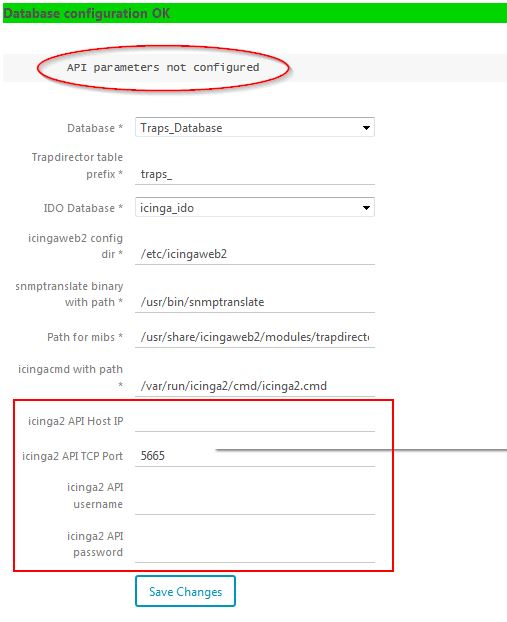
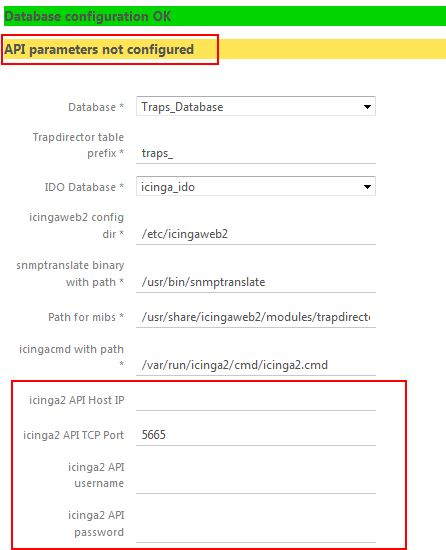
API permissions check

diff --git a/library/Trapdirector/Config/TrapModuleConfig.php b/library/Trapdirector/Config/TrapModuleConfig.php
@@ -4,16 +4,28 @@ namespace Icinga\Module\TrapDirector\Config;
 
 class TrapModuleConfig
 {
+    /********** Database configuration ***********************/
 	// Database prefix for tables 
-	protected $table_prefix;
-	
+    protected $table_prefix; //< Database prefix for tables 	
 	protected $DBConfigDefaults=array(
 		'db_remove_days' => 60, // number of days before removing traps
 		'log_destination' => 'syslog', // Log destination for trap handler
 		'log_file' => '/tmp/trapdirector.log', // Log file
 		'log_level' => 2, // log level
 	);
+	// get default values for dbconfig
+	public function getDBConfigDefaults() { return $this->DBConfigDefaults;}
+	// Minimum DB version
+	static public function getDbMinVersion() { return 1;}	
+	// Current DB version
+	static public function getDbCurVersion() { return 1;}
+
+	/************ Module configuration **********************/
+	// Module base path
+	static public function urlPath() { return 'trapdirector'; }
+	static public function getapiUserPermissions() { return array("status", "objects/query/Host", "objects/query/Service" , "actions/process-check-result"); } //< api user permissions required
 	
+	/*********** Log configuration *************************/
 	protected $logLevels=array(0=>'No output', 1=>'critical', 2=>'warning', 3=>'trace', 4=>'ALL');
 	public function getlogLevels() { return $this->logLevels;}
 	protected $logDestinations=array('syslog'=>'syslog','file'=>'file','display'=>'display');
@@ -23,6 +35,8 @@ class TrapModuleConfig
 	{
 		$this->table_prefix=$prefix;
 	}
+	
+	/************  Database table names ********************/
 	// DB table name of trap received list : prefix 't'
 	public function getTrapTableName() 
 	{ 
@@ -45,21 +59,15 @@ class TrapModuleConfig
 	{ 
 		return array('c' => $this->table_prefix . 'db_config');
 	}
-
+	
 	// Mib cache tables
 	public function getMIBCacheTableName() { return $this->table_prefix . 'mib_cache'; }
 	public function getMIBCacheTableTrapObjName() { return $this->table_prefix . 'mib_cache_trap_object'; }
 	public function getMIBCacheTableSyntax() { return $this->table_prefix . 'mib_cache_syntax'; }
 	public function getMIBCacheTableTC() { return array('t' => $this->table_prefix . 'mib_cache_tc'); }
 	
-	// get default values for dbconfig
-	public function getDBConfigDefaults() { return $this->DBConfigDefaults;}
-	// Minimum DB version 
-	public function getDbMinVersion() { return 1;}
 	
-	// Current DB version 
-	public function getDbCurVersion() { return 1;}
-	
+	/****************** Database queries *******************/
 	// DB columns to display in view table (prefix is set for table in getTrapTableName)
 	// Note : must have 'id' and 'timestamp'
 	public function getTrapListDisplayColumns()
@@ -155,10 +163,7 @@ class TrapModuleConfig
 			'modified'		=> 'UNIX_TIMESTAMP(r.modified)'
 		);
 	}	
-	
-	// Module base path
-	public function urlPath() { return 'trapdirector'; }
-	
+		
 	// Trap detail (<key> => <title> <sql select>)
 	public function trapDetailQuery()
 	{

diff --git a/library/Trapdirector/Icinga2Api.php b/library/Trapdirector/Icinga2Api.php
@@ -70,26 +70,42 @@ class Icinga2API
         throw new RuntimeException('Certificate auth not implemented');
     }
 
-    public function test()
+    public function test(array $permissions)
     {
-        //$client = new ApiClient('localhost');
-        //$client->setCredentials('root', 'icinga');
-        //$getHeader = array('X-HTTP-Method-Override: GET');
-        /*$body = array(
-            'joins' => array(
-                'host'
-            ),
-            //'filter' => 'service.state!=service_state && match("networks",host.groups) && host.last_hard_state!=1 && host.last_check!=-1 && host.acknowledgement!=host_ack',
-            'filter' => 'service.state!=service_state && host.acknowledgement!=host_ack',
-            'filter_vars' => array(
-                'service_state' => 'ServiceOK',
-                'host_ack' 	=> 2
-            )
-        );
-        */
-        $this->request("get", "", NULL, NULL);
-        // TODO : check result ? -> if (preg_match('/permissions/', $result));
-        return 'API connection OK';
+        $result=$this->request("get", "", NULL, NULL);
+        var_dump($result);
+        $permOk=1;
+        $permMissing='';
+        if (property_exists($result, 'results') && property_exists($result->results[0], 'permissions'))
+        {
+            
+            foreach ( $permissions as $mustPermission)
+            {
+                $curPermOK=0;
+                foreach ( $result->results[0]->permissions as $curPermission)
+                {
+                    $curPermission=preg_replace('/\*/','.*',$curPermission); // put * as .* to created a regexp
+                    if (preg_match('#'.$curPermission.'#',$mustPermission))
+                    {
+                        $curPermOK=1;
+                        break;
+                    }
+                }
+                if ($curPermOK == 0)
+                {
+                    $permOk=0;
+                    $permMissing=$mustPermission;
+                    break;
+                }
+            }
+            if ($permOk == 0)
+            {
+                return array(true,'API connection OK, but missing permission : '.$permMissing);
+            }
+            return array(false,'API connection OK');
+            
+        }
+        return array(true,'API connection OK, but cannot get permissions');
     }
     
     

diff --git a/application/controllers/SettingsController.php b/application/controllers/SettingsController.php
@@ -8,6 +8,7 @@ use Icinga\Application\Icinga;
 use Icinga\Exception\ProgrammingError;
 use RunTimeException;
 
+use Icinga\Module\TrapDirector\Config\TrapModuleConfig;
 use Icinga\Module\Trapdirector\TrapsController;
 use Icinga\Module\Trapdirector\Forms\TrapsConfigForm;
 use Icinga\Module\Trapdirector\Icinga2Api;
@@ -68,14 +69,17 @@ class SettingsController extends TrapsController
 	    $apitest=new Icinga2Api($this->Config()->get('config', 'icingaAPI_host'),$this->Config()->get('config', 'icingaAPI_port'));
     	$apitest->setCredentials($this->Config()->get('config', 'icingaAPI_user'), $this->Config()->get('config', 'icingaAPI_password'));
     	try {
-    	    $this->view->apimessage=$apitest->test();
+    	    list($this->view->apimessageError,$this->view->apimessage)=$apitest->test(TrapModuleConfig::getapiUserPermissions());
+    	    //$this->view->apimessageError=false;
     	} catch (RuntimeException $e) {
-    	    $this->view->apimessage=$e->getMessage();
+    	    $this->view->apimessage='API config : ' . $e->getMessage();
+    	    $this->view->apimessageError=true;
     	} 
 	}
 	else
 	{
 	    $this->view->apimessage='API parameters not configured';
+	    $this->view->apimessageError=true;
 	}
 	// List DB in $ressources
 	$resources = array();

diff --git a/docs/01-install.md b/docs/01-install.md
@@ -89,7 +89,7 @@ object ApiUser "trapdirector" {
   permissions = [ "/status", "objects/query/Host", "objects/query/Service" , "actions/process-check-result" ]
 }
 ```
-!! BETA VERSION : Permissions will maybe change in near future (but the module will check for this).
+Note (BETA VERSION) : Permissions will maybe change in near future (but the module will check for this, see below).
 
 Then reload icinga2 (systemctl reload icinga2)
 
@@ -105,10 +105,13 @@ Set :
 * API username
 * API password
 
-Then, the module will test connection and report error or OK : 
+Then, the module will test connection and report OK if all is fine : 
 
 ![install-11](img/install-11.jpg)
 
+Or show an error (here missing permission) : 
+
+![install-12](img/install-12.jpg)
 
 Snmptrapd configuration
 ------------------------
